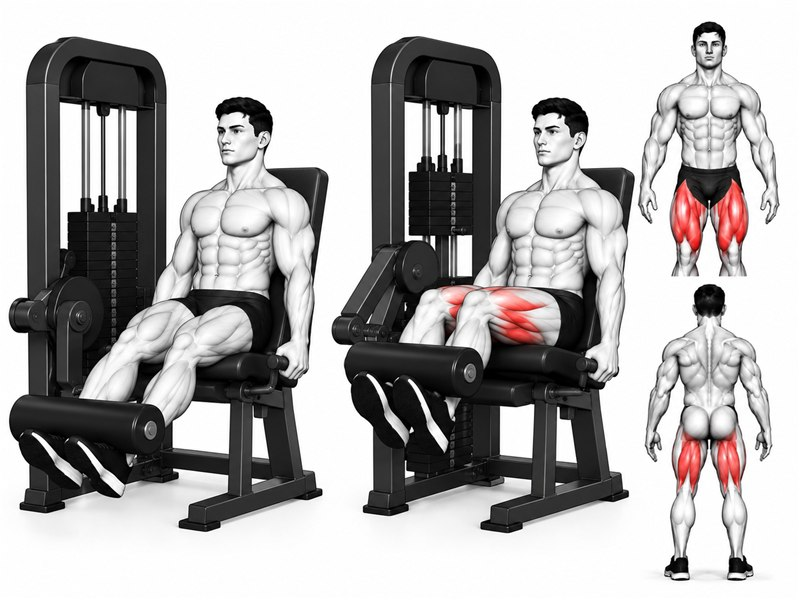
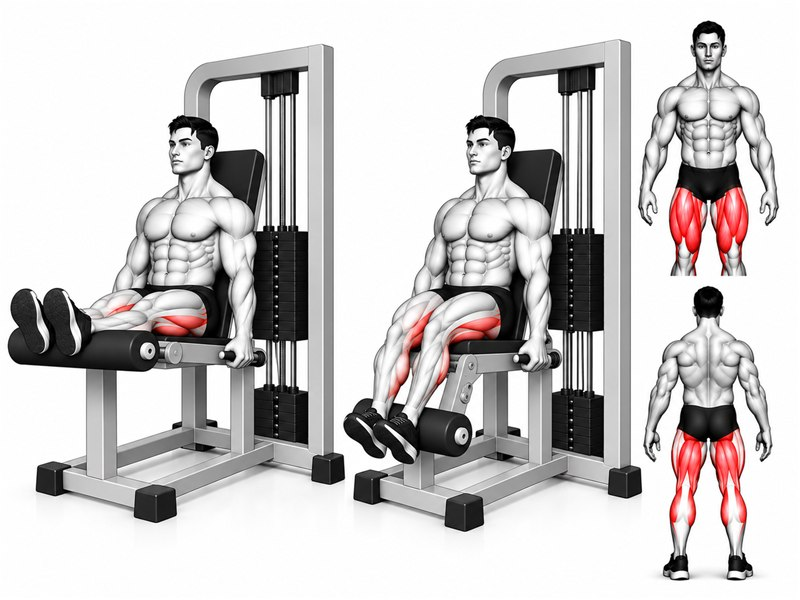
Seated Leg Curl: nieuwe illustratie

diff --git a/index.html b/index.html
@@ -8,7 +8,7 @@
 // Zelf-verversen: een verouderde (gecachete) pagina, bv. via een icoon op het
 // beginscherm, vergelijkt zijn buildnummer met version.json en laadt zichzelf
 // dan opnieuw via een nieuwe URL (?b=...). Zie tools/bump-build.js.
-window.PRIME_BUILD = '20261005-2041';
+window.PRIME_BUILD = '20261005-2114';
 (function () {
   try {
     fetch('version.json?ts=' + Date.now(), { cache: 'no-store' })
@@ -46,12 +46,12 @@ if ('serviceWorker' in navigator) {
 <meta name="theme-color" content="#4A7C59">
 <meta name="apple-mobile-web-app-title" content="PRIME">
 <link href="https://fonts.googleapis.com/css2?family=DM+Serif+Display:ital@0;1&family=DM+Sans:wght@300;400;500;600;700&display=swap" rel="stylesheet">
-<link rel="stylesheet" href="css/styles.css?v=20261005-2041">
+<link rel="stylesheet" href="css/styles.css?v=20261005-2114">
 <!-- Supabase-client staat lokaal (vastgezet op 2.116.0), zodat inloggen niet afhangt van een externe CDN. -->
 <script src="js/vendor/supabase-2.116.0.js"></script>
-<script src="js/cloud.js?v=20261005-2041"></script>
-<script src="js/translations.js?v=20261005-2041"></script>
-<script src="js/i18n.js?v=20261005-2041"></script>
+<script src="js/cloud.js?v=20261005-2114"></script>
+<script src="js/translations.js?v=20261005-2114"></script>
+<script src="js/i18n.js?v=20261005-2114"></script>
 </head>
 <body>
 
@@ -1590,6 +1590,6 @@ if ('serviceWorker' in navigator) {
 
 </div><!-- /app-shell -->
 
-<script src="js/auth.js?v=20261005-2041"></script>
+<script src="js/auth.js?v=20261005-2114"></script>
 </body>
 </html>

diff --git a/js/data.js b/js/data.js
@@ -249,7 +249,7 @@ const EXTRA_EXERCISES = [
 
 // Cache-busting: zelfde reden als PRODUCT_PHOTO_VERSION hierboven -- ophogen
 // zodra een foto in EXTRA_EXERCISES vervangen wordt.
-const EXTRA_EXERCISE_PHOTO_VERSION = 10;
+const EXTRA_EXERCISE_PHOTO_VERSION = 11;
 EXTRA_EXERCISES.forEach(group => group.exercises.forEach(ex => { if (ex.photo && ex.photo.startsWith('images/')) ex.photo += '?v=' + EXTRA_EXERCISE_PHOTO_VERSION; }));
 
 
